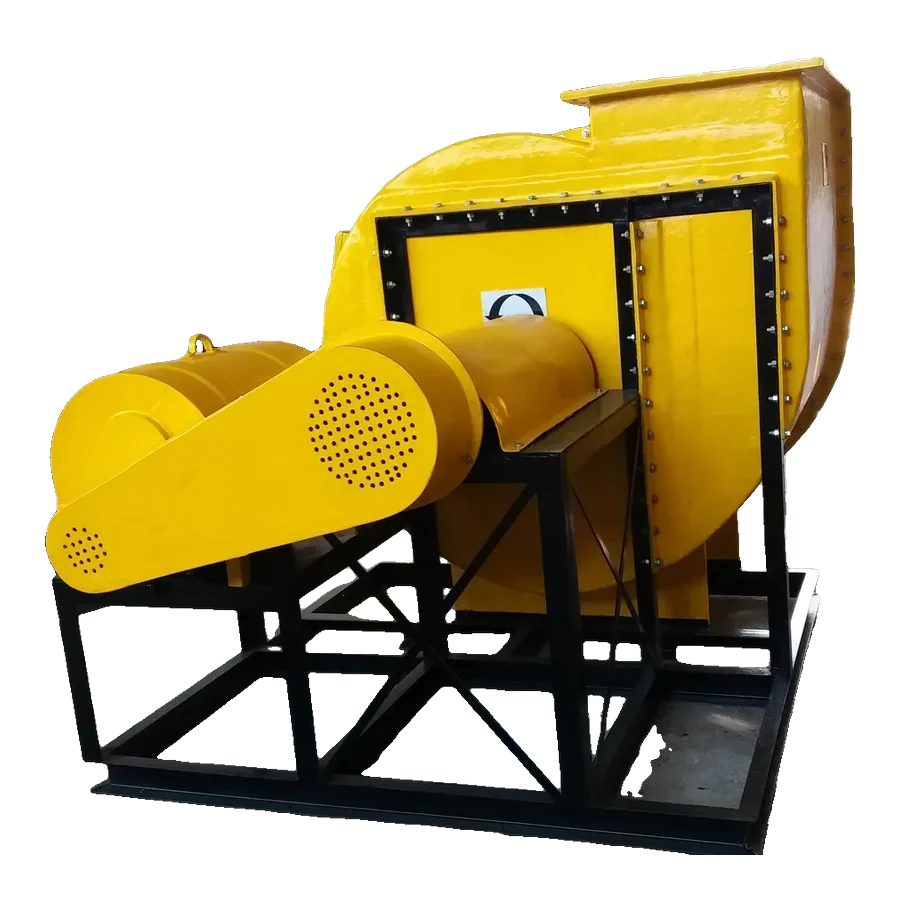
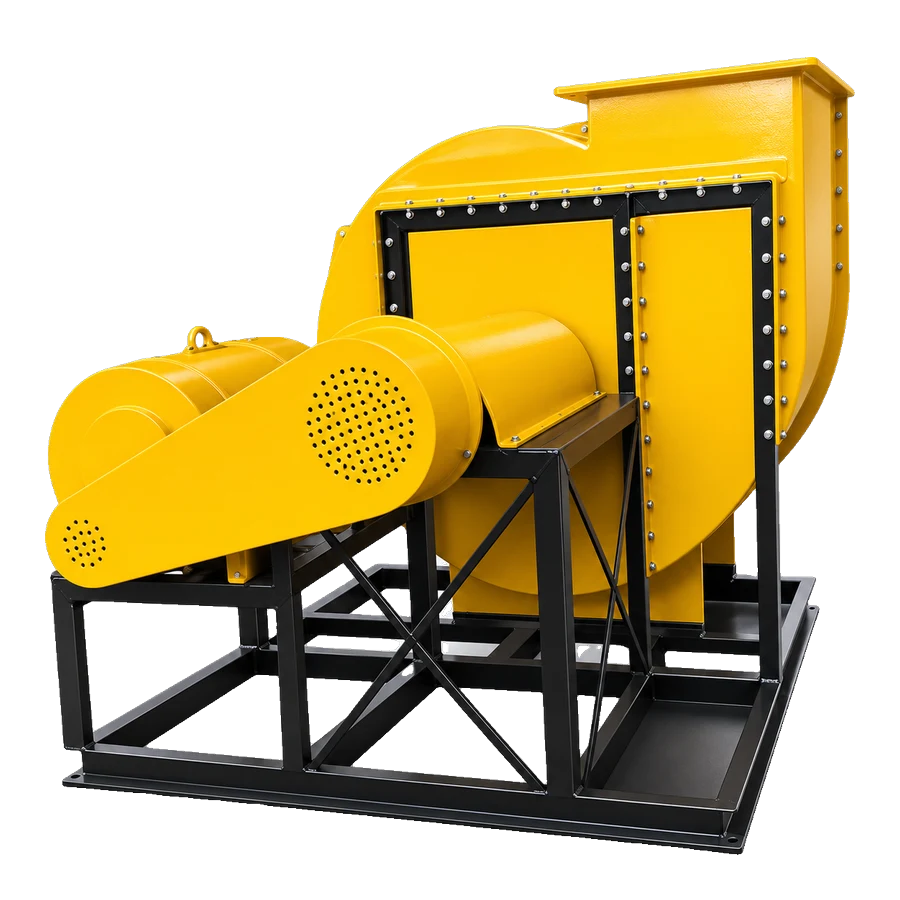
Portfolio ring: 3D renders made from Plasto-Fab's own job photos, paint kept

diff --git a/dist/index.html b/dist/index.html
@@ -155,7 +155,7 @@
         </div>
         <div class="port__stage" tabindex="0" role="group" aria-label="Product portfolio: drag or use the arrow keys to turn">
           <div class="port__floor"></div>
-          <div class="port__ring" data-ring><figure class="pitem" data-port-item><img src="assets/portfolio/scrubber.webp?v=2" alt="A packed-column scrubber system built by Plasto-Fab" width="900" height="900" loading="lazy" decoding="async" draggable="false"></figure><figure class="pitem" data-port-item><img src="assets/portfolio/frp-tanks.webp?v=2" alt="Two yellow FRP storage tanks" width="900" height="900" loading="lazy" decoding="async" draggable="false"></figure><figure class="pitem" data-port-item><img src="assets/portfolio/thermo-tank.webp?v=3" alt="A tall thermoplastic storage tank with a cage ladder" width="900" height="900" loading="lazy" decoding="async" draggable="false"></figure><figure class="pitem" data-port-item><img src="assets/portfolio/separation-tank.webp?v=2" alt="A multi-compartment PP separation tank" width="900" height="900" loading="lazy" decoding="async" draggable="false"></figure><figure class="pitem" data-port-item><img src="assets/portfolio/reaction-vessel.webp?v=2" alt="An FRP reaction vessel with its agitator frame" width="900" height="900" loading="lazy" decoding="async" draggable="false"></figure><figure class="pitem" data-port-item><img src="assets/portfolio/vacuum-receiver.webp?v=2" alt="An FRP vacuum receiver on legs" width="900" height="900" loading="lazy" decoding="async" draggable="false"></figure><figure class="pitem" data-port-item><img src="assets/portfolio/blower.webp?v=2" alt="An FRP centrifugal blower on its base frame" width="900" height="900" loading="lazy" decoding="async" draggable="false"></figure><figure class="pitem" data-port-item><img src="assets/portfolio/stp.webp?v=2" alt="Filter vessels for a sewage treatment plant" width="900" height="900" loading="lazy" decoding="async" draggable="false"></figure></div>
+          <div class="port__ring" data-ring><figure class="pitem" data-port-item><img src="assets/portfolio/scrubber.webp?v=4" alt="Scrubbing system (3D render based on a Plasto-Fab job)" width="900" height="900" loading="lazy" decoding="async" draggable="false"></figure><figure class="pitem" data-port-item><img src="assets/portfolio/frp-tanks.webp?v=4" alt="FRP storage tanks (3D render based on a Plasto-Fab job)" width="900" height="900" loading="lazy" decoding="async" draggable="false"></figure><figure class="pitem" data-port-item><img src="assets/portfolio/thermo-tank.webp?v=4" alt="Thermoplastic storage tank (3D render based on a Plasto-Fab job)" width="900" height="900" loading="lazy" decoding="async" draggable="false"></figure><figure class="pitem" data-port-item><img src="assets/portfolio/separation-tank.webp?v=4" alt="PP separation tank (3D render based on a Plasto-Fab job)" width="900" height="900" loading="lazy" decoding="async" draggable="false"></figure><figure class="pitem" data-port-item><img src="assets/portfolio/reaction-vessel.webp?v=4" alt="Reaction vessel (3D render based on a Plasto-Fab job)" width="900" height="900" loading="lazy" decoding="async" draggable="false"></figure><figure class="pitem" data-port-item><img src="assets/portfolio/vacuum-receiver.webp?v=4" alt="Vacuum receiver (3D render based on a Plasto-Fab job)" width="900" height="900" loading="lazy" decoding="async" draggable="false"></figure><figure class="pitem" data-port-item><img src="assets/portfolio/blower.webp?v=4" alt="Centrifugal blower (3D render based on a Plasto-Fab job)" width="900" height="900" loading="lazy" decoding="async" draggable="false"></figure><figure class="pitem" data-port-item><img src="assets/portfolio/stp.webp?v=4" alt="Sewage treatment plant filters (3D render based on a Plasto-Fab job)" width="900" height="900" loading="lazy" decoding="async" draggable="false"></figure></div>
         </div>
       </div>
     </div>

diff --git a/index.html b/index.html
@@ -155,7 +155,7 @@
         </div>
         <div class="port__stage" tabindex="0" role="group" aria-label="Product portfolio: drag or use the arrow keys to turn">
           <div class="port__floor"></div>
-          <div class="port__ring" data-ring><figure class="pitem" data-port-item><img src="assets/portfolio/scrubber.webp?v=2" alt="A packed-column scrubber system built by Plasto-Fab" width="900" height="900" loading="lazy" decoding="async" draggable="false"></figure><figure class="pitem" data-port-item><img src="assets/portfolio/frp-tanks.webp?v=2" alt="Two yellow FRP storage tanks" width="900" height="900" loading="lazy" decoding="async" draggable="false"></figure><figure class="pitem" data-port-item><img src="assets/portfolio/thermo-tank.webp?v=3" alt="A tall thermoplastic storage tank with a cage ladder" width="900" height="900" loading="lazy" decoding="async" draggable="false"></figure><figure class="pitem" data-port-item><img src="assets/portfolio/separation-tank.webp?v=2" alt="A multi-compartment PP separation tank" width="900" height="900" loading="lazy" decoding="async" draggable="false"></figure><figure class="pitem" data-port-item><img src="assets/portfolio/reaction-vessel.webp?v=2" alt="An FRP reaction vessel with its agitator frame" width="900" height="900" loading="lazy" decoding="async" draggable="false"></figure><figure class="pitem" data-port-item><img src="assets/portfolio/vacuum-receiver.webp?v=2" alt="An FRP vacuum receiver on legs" width="900" height="900" loading="lazy" decoding="async" draggable="false"></figure><figure class="pitem" data-port-item><img src="assets/portfolio/blower.webp?v=2" alt="An FRP centrifugal blower on its base frame" width="900" height="900" loading="lazy" decoding="async" draggable="false"></figure><figure class="pitem" data-port-item><img src="assets/portfolio/stp.webp?v=2" alt="Filter vessels for a sewage treatment plant" width="900" height="900" loading="lazy" decoding="async" draggable="false"></figure></div>
+          <div class="port__ring" data-ring><figure class="pitem" data-port-item><img src="assets/portfolio/scrubber.webp?v=4" alt="Scrubbing system (3D render based on a Plasto-Fab job)" width="900" height="900" loading="lazy" decoding="async" draggable="false"></figure><figure class="pitem" data-port-item><img src="assets/portfolio/frp-tanks.webp?v=4" alt="FRP storage tanks (3D render based on a Plasto-Fab job)" width="900" height="900" loading="lazy" decoding="async" draggable="false"></figure><figure class="pitem" data-port-item><img src="assets/portfolio/thermo-tank.webp?v=4" alt="Thermoplastic storage tank (3D render based on a Plasto-Fab job)" width="900" height="900" loading="lazy" decoding="async" draggable="false"></figure><figure class="pitem" data-port-item><img src="assets/portfolio/separation-tank.webp?v=4" alt="PP separation tank (3D render based on a Plasto-Fab job)" width="900" height="900" loading="lazy" decoding="async" draggable="false"></figure><figure class="pitem" data-port-item><img src="assets/portfolio/reaction-vessel.webp?v=4" alt="Reaction vessel (3D render based on a Plasto-Fab job)" width="900" height="900" loading="lazy" decoding="async" draggable="false"></figure><figure class="pitem" data-port-item><img src="assets/portfolio/vacuum-receiver.webp?v=4" alt="Vacuum receiver (3D render based on a Plasto-Fab job)" width="900" height="900" loading="lazy" decoding="async" draggable="false"></figure><figure class="pitem" data-port-item><img src="assets/portfolio/blower.webp?v=4" alt="Centrifugal blower (3D render based on a Plasto-Fab job)" width="900" height="900" loading="lazy" decoding="async" draggable="false"></figure><figure class="pitem" data-port-item><img src="assets/portfolio/stp.webp?v=4" alt="Sewage treatment plant filters (3D render based on a Plasto-Fab job)" width="900" height="900" loading="lazy" decoding="async" draggable="false"></figure></div>
         </div>
       </div>
     </div>

diff --git a/README.md b/README.md
@@ -26,7 +26,7 @@ The scrubber is meant to look like real equipment: a packed column with an exhau
 
 ## The rest of the home page
 
-- **Product portfolio** (`.port`): eight equipment families on a 3D ring (ducting left out on purpose) you turn by dragging or swiping (or the arrows, arrow keys or the list); only the front item is sharp, the rest are blurred so they don't pull the eye. It turns on its own while on screen until someone takes over; the page scrolls normally past it. The pictures are Plasto-Fab's own photos with the background cut out (rembg `isnet-general-use`), fitted into 900×900 transparent WebPs: scrubber ← `wix/scrubbing-system/01`, FRP tanks ← `storage-tanks/21`, thermoplastic tank ← `storage-tanks/12` (perspective-straightened, the photo was shot from low down), separation tank ← `sewage-plant/04`, reaction vessel ← `reaction-vessels/00`, vacuum receiver ← `vacuum-receiver/04`, blower ← `centrifugal-blower/00`, STP ← `sewage-plant/02`. The older Codex renders are still in `ref/renders/`.
+- **Product portfolio** (`.port`): eight equipment families on a 3D ring (ducting left out on purpose) you turn by dragging or swiping (or the arrows, arrow keys or the list); only the front item is sharp, the rest are blurred so they don't pull the eye. It turns on its own while on screen until someone takes over; the page scrolls normally past it. The pictures are 3D studio renders made in ChatGPT from Plasto-Fab's own job photos (paint colours kept), saved in `ref/renders-from-photos/`; the photo references sent are in `ref/photo-refs/`. Each render had its background cut out (rembg `isnet-general-use`) and was fitted into a 900×900 transparent WebP. Source photos: scrubber ← `wix/scrubbing-system/01`, FRP tanks ← `storage-tanks/21`, thermoplastic tank ← `storage-tanks/12`, separation tank ← `sewage-plant/04`, reaction vessel ← `reaction-vessels/00`, vacuum receiver ← `vacuum-receiver/04`, blower ← `centrifugal-blower/00`, STP ← `sewage-plant/02`. The first Codex renders are still in `ref/renders/`.
 - **Work gallery** (`#range`): 10 cards of real work photos in a strip that scrolls sideways (arrows, drag, swipe or arrow keys), including FRP/GRP, thermoplastic and pickling tanks. Each photo is shown whole, over a soft blur of itself. Each card's "Get a quote" ticks the matching project type in the form at the bottom.
 - **Industries:** chemical, pharma, water, electroplating and the others they serve.
 - **Why choose Plasto-Fab:** four points as cards with big gradient numbers.
